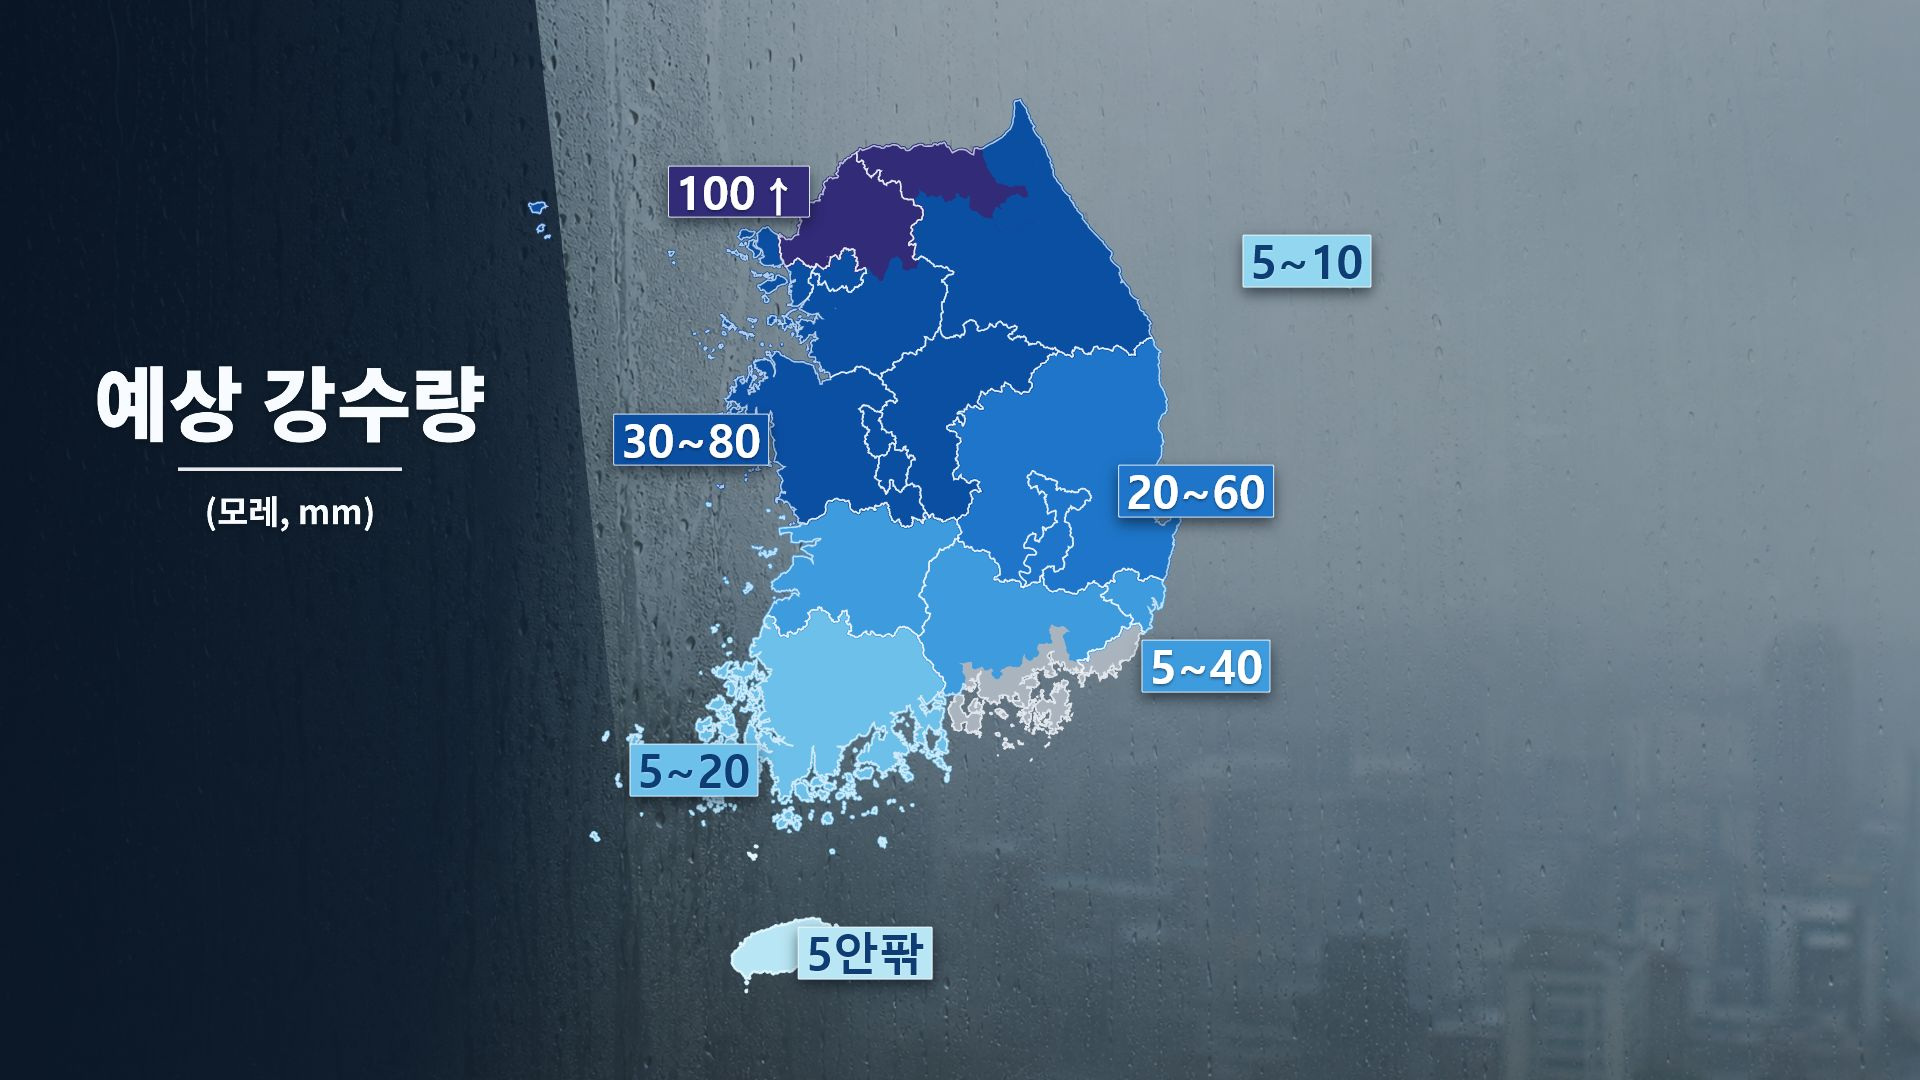
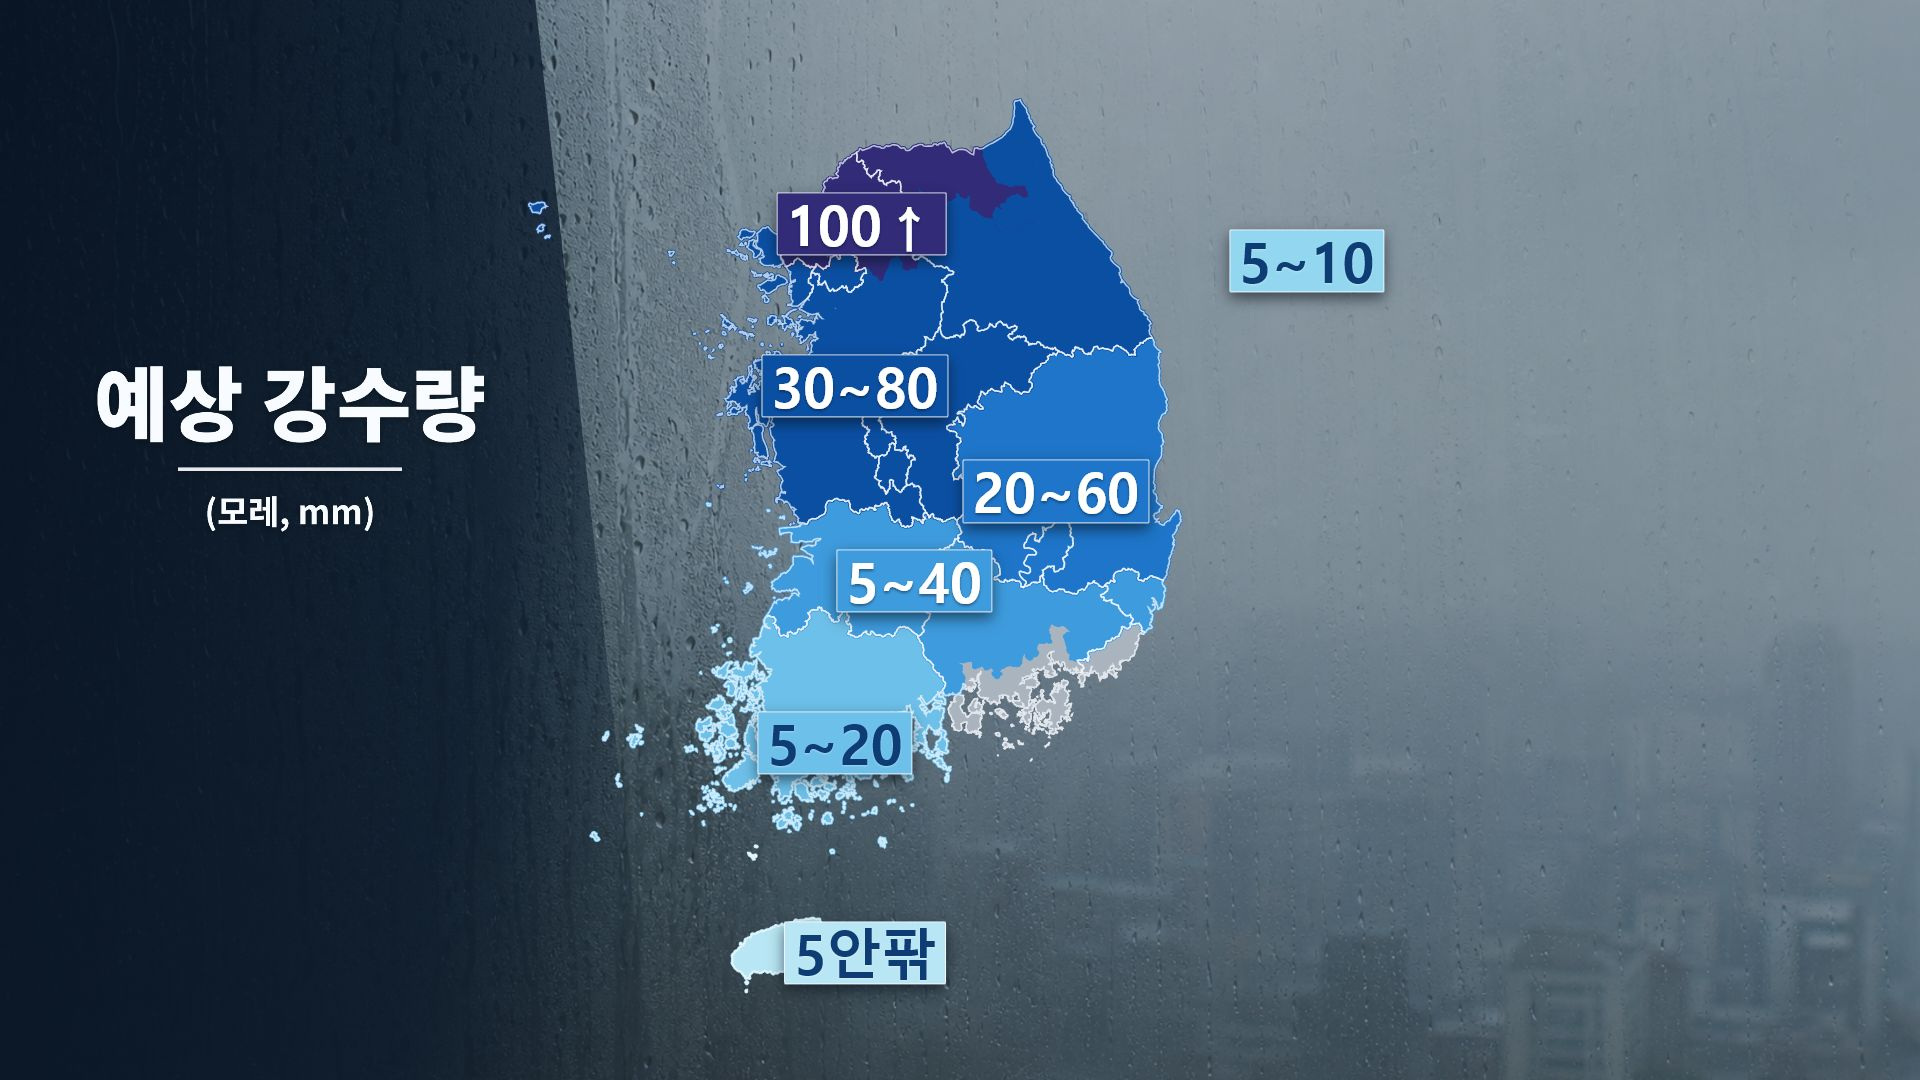
Refine rainfall label placement and sizing

diff --git a/src/data/rainGraphicData.js b/src/data/rainGraphicData.js
@@ -571,11 +571,11 @@ export const RAIN_GRAPHICS = {
       },
     ],
     labels: [
-      { text: '100↑', lon: 126.22, lat: 38.05, color: '#312b78' },
-      { text: '30~80', lon: 125.86, lat: 36.52, color: '#0b4fa3' },
-      { text: '20~60', lon: 129.68, lat: 36.2, color: '#1e75c9' },
-      { text: '5~40', lon: 129.76, lat: 35.12, color: '#3e9bdd' },
-      { text: '5~20', lon: 125.88, lat: 34.48, color: '#6dc0ea', darkText: true },
+      { text: '100↑', lon: 127.15, lat: 37.85, color: '#312b78' },
+      { text: '30~80', lon: 127.1, lat: 36.85, color: '#0b4fa3' },
+      { text: '20~60', lon: 128.62, lat: 36.2, color: '#1e75c9' },
+      { text: '5~40', lon: 127.55, lat: 35.65, color: '#3e9bdd' },
+      { text: '5~20', lon: 126.95, lat: 34.65, color: '#6dc0ea', darkText: true },
       { text: '5~10', lon: 130.52, lat: 37.62, color: '#92d7ef', darkText: true },
       { text: '5안팎', lon: 127.18, lat: 33.35, color: '#b9e6f4', darkText: true },
     ],

diff --git a/src/components/RainGraphicView.css b/src/components/RainGraphicView.css
@@ -119,12 +119,12 @@
   align-items: center;
   justify-content: center;
   width: max-content;
-  padding: 3px 7px 5px;
-  border: 1.5px solid rgba(248, 251, 255, 0.88);
+  padding: 4px 9px 6px;
+  border: 1.75px solid rgba(248, 251, 255, 0.88);
   border-radius: 2px;
   color: #ffffff;
-  font-size: clamp(29px, 2.4vw, 46px);
-  font-weight: 900;
+  font-size: clamp(35px, 2.9vw, 55px);
+  font-weight: 950;
   line-height: 0.93;
   letter-spacing: 0;
   white-space: nowrap;

diff --git a/docs/rain-graphic-spec.md b/docs/rain-graphic-spec.md
@@ -95,9 +95,9 @@
   배경 밝은 회색 — 목표는 최신 전체화면 템플릿이므로 삼각형은 미채택
 - **세트1 그림의 제주 라벨 `10~60(10↑)`는 디자이너 오타** (통보문: 많은 곳 산지 100mm 이상)
   — 자동화 시 `10~60(100↑)`가 정답
-- 라벨은 해당 구역 위 또는 바로 옆, 겹침 없이 배치
-- 제주나 경기남서부처럼 구역이 작은 경우 라벨이 해당 면을 완전히 가리지 않게 대부분을 바깥으로
-  빼고, 라벨 가장자리만 구역 일부와 겹치게 배치
+- 라벨은 **해당 구역 위에 배치하는 것이 기본**이며, 구역 중심에 고정하지 않고 가장 읽기 좋은 내부 공간을 사용
+- 제주나 경기남서부처럼 구역이 작거나 라벨끼리 밀집한 경우에만 해당 면을 완전히 가리지 않도록 대부분을
+  바깥으로 빼고, 라벨 가장자리만 구역 일부와 겹치게 배치
 - 모든 구역에 라벨을 달지는 않음(작은 값·병합 구역은 생략되기도) — 단 이는 디자이너 재량,
   구현은 통보문 구역별로 라벨을 만들되 배치 단계에서 조정
 
@@ -106,13 +106,15 @@
 1. **다른 강수 구역을 덮지 않는 것이 최우선**이다. 라벨 박스가 값·색이 다른 구역 위에 놓여
    그 구역의 라벨처럼 읽히는 배치는 금지한다. 예를 들어 `80~150`을 `250↑` 구역 위에 놓거나,
    `150↑`을 `300↑`·`100~200` 구역 위에 걸쳐 놓지 않는다.
-2. **라벨 중심을 대상 구역 중심에 맞출 필요가 없다.** 대상 구역의 중심점과 라벨 중심점 사이의
-   거리는 낮은 우선순위의 참고값으로만 사용한다.
-3. 대상 구역이 작거나 주변 라벨이 밀집하면 라벨을 가까운 바다 쪽으로 우선 이동한다. 이때
-   라벨의 모서리나 가장자리만 대상 구역에 걸치게 하고, 박스 대부분은 바다에 두어 대상 면과
-   인접 구역을 모두 읽을 수 있게 한다.
-4. 육지 안쪽 구역은 대상 구역 안의 빈 공간, 대상 구역과 맞닿은 같은 값 구역, 인접 바다 순으로
-   후보 위치를 탐색한다. 값이 다른 이웃 구역 위에 올리는 후보는 사용하지 않는다.
+2. **기본 위치는 대상 구역 위**다. 라벨이 들어갈 공간이 충분하면 해당 색상 면의 읽기 좋은 내부에
+   올린다. 단, 라벨 중심을 대상 구역 중심에 정확히 맞출 필요는 없으며 두 중심 사이의 거리는
+   낮은 우선순위의 참고값으로만 사용한다.
+3. 바다 쪽 배치는 기본값이 아니라 **예외 규칙**이다. 대상 구역이 작거나, 다른 값 구역을 침범하거나,
+   주변 라벨과 너무 가까워지는 경우에만 가까운 바다 쪽으로 이동한다. 이때 라벨의 모서리나
+   가장자리만 대상 구역에 걸치게 하고, 박스 대부분은 바다에 두어 대상 면과 인접 구역을 모두
+   읽을 수 있게 한다.
+4. 후보 위치는 대상 구역 안의 빈 공간, 대상 구역과 맞닿은 같은 값 구역, 인접 바다 순으로 탐색한다.
+   값이 다른 이웃 구역 위에 올리는 후보는 사용하지 않는다.
 5. 배치 순서는 **면적이 작고 후보 공간이 적은 세부 구역(많은 곳 포함)부터**, 넓은 본체 구역
    순으로 한다. 먼저 놓인 라벨과 겹치면 후순위 라벨을 바다나 외곽으로 이동한다.
 6. 자동 배치의 충돌 비용은 `다른 값 구역 침범 > 다른 라벨과 겹침 > 대상 구역을 과도하게 가림